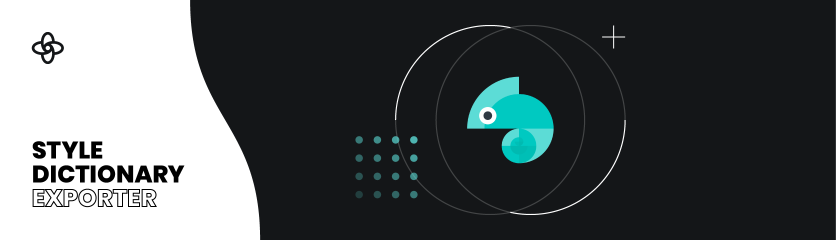
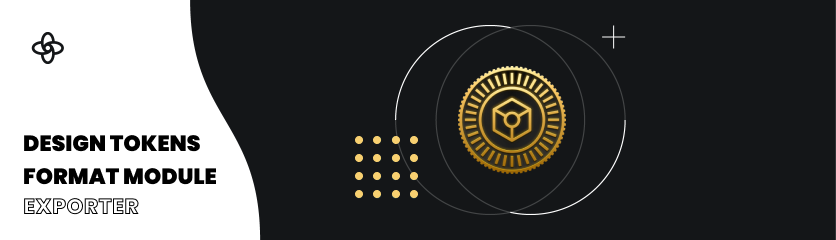
#wip – improved previews

diff --git a/README.md b/README.md
@@ -1,4 +1,4 @@
-<img src="https://github.com/Supernova-Studio/exporter-style-dictionary/blob/master/readme-icon.png?raw=true" alt="Supernova Logo" style="max-width:100%;">
+<img src="https://github.com/Supernova-Studio/design-tokens-format-module/blob/master/readme-icon.png?raw=true" alt="Supernova Logo" style="max-width:100%;">
 
 [Supernova](https://supernova.io) is a design system platform that manages your assets, tokens, components and allows you to write spectacular documentations for your entire teams. And because you found your way here, you are probably interested in its most advanced functionality - automatic hand-off of design and development assets, tokens and data in general. To learn everything Supernova, please check out our [developer documentation](https://developers.supernova.io/).
 
